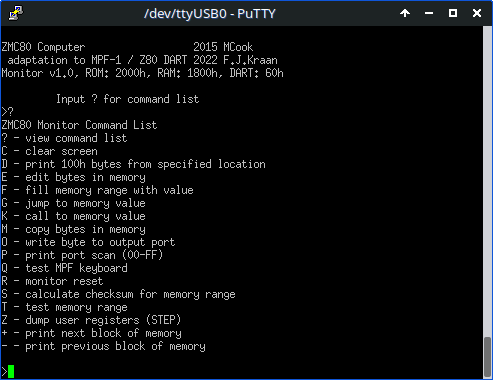
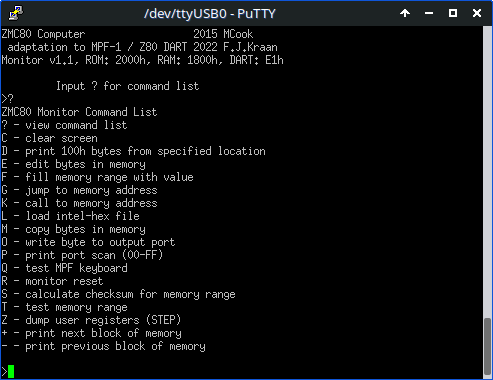
Updated documentation to version 1.1.

diff --git a/README.md b/README.md
@@ -76,6 +76,8 @@ Usage:
 The second argument of the script compensates for the target address in the hex intel file with respect to 
 the address in the RAM. 
 
+With version 1.1 the serial monitor has its own hex-intel upload code. Working, bit still experimental...
+
 ## Some screenshots
 
 Startup banner and help:
@@ -88,4 +90,4 @@ Changes made to the dump command:
 
 A planned change is to add a download of hex-intel via the monitor too, making a comparison on the host possible.
 
-fjkraan@electrickery.nl, 20220216
+fjkraan@electrickery.nl, 20251217
